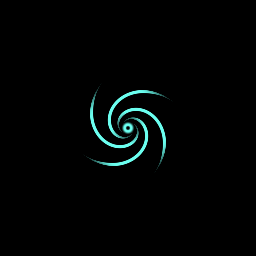
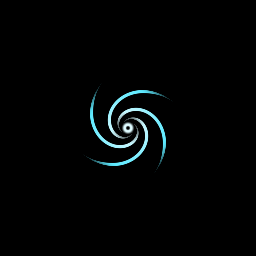
Separate the die's glass from the mark burning in it
The body and the surge glyph had both landed on the suite's teal, so the
one thing the die exists to say was the same colour as the thing it was
saying it on. The whirlpool was there — relief, emission, everything —
and it did not read.

They drifted because they are stated in completely different places. The
body reaches Dice So Nice as a colorset field in `dsn.mjs`; the glyph is
baked into an emissive PNG by the texture tool and does not exist at
runtime at all. Neither file could see the other, and each looked
entirely correct on its own.

So they are one statement now — `DIE_KEYS` in `palette.mjs` — and
neither file names a colour. The body is `apex`, the suite's deep arcane
violet: dark enough that a lit mark reads against it, saturated enough
to be a glass rather than a smoke, and, unlike the near-blacks, bright
enough to be a body at all on a transmissive material. The glyph is
`cyan`, 86 degrees away.

The glyph stays in the cool arcane family rather than going hot on
purpose: the severity tiers own amber and red, so a surge glyph in
`warn` would announce a Major before the severity had been rolled. It
blows to white toward the eye instead, so the mark has a value range of
its own — across a table the centre is what you catch first and the arms
are what tell you what it was.

The check measures the angle between the two (>= 45 degrees), requires
the glyph to out-value the body since it is a light source inside it,
[…]

Changed region(s): [[0.375, 0.375, 0.625, 0.625]]

diff --git a/docs/ARCANE_SURGE.md b/docs/ARCANE_SURGE.md
@@ -373,8 +373,7 @@ Two smaller consequences of the same material:
 - **The body colour has to have light in it.** A transmissive material carries
   its tint through the whole casting rather than painting it on the surface, so
   a near-black background is not a dark glass die, it is a void with an opaque
-  figure floating in it. The body is the feature's own `--gl-accent` teal, and
-  `arcane-surge-check.mjs` refuses an `ink*` token there.
+  figure floating in it. `arcane-surge-check.mjs` refuses an `ink*` token there.
 - **Bump and emissive maps both live behind DSN's "realistic lighting"**, which
   Foundry's own Low performance mode turns off. There is no normal map and no
   emissive map at all in that branch, and a die carrying nothing else is twenty
@@ -392,6 +391,30 @@ emissive *map* slot; that belongs to a preset), so its one channel is
 `emissiveLabels: true`, which lights DSN's own numeral canvas. Without it that
 die is the only surface in the feature wearing relief and no light, and a number
 cut into unlit glass is a number you have to hunt for.
+
+### The glass and the mark are one statement
+
+`DIE_KEYS` in `palette.mjs` names three palette keys — `body`, `edge`, `glyph` —
+and neither of the two files that render the die states a colour of its own.
+
+That is not tidiness. **The body and the glyph are only meaningful against each
+other, and they are produced in completely different places**: the body reaches
+Dice So Nice as a colorset field in `dsn.mjs`, while the glyph is baked into an
+emissive PNG by `tools/gen-surge-textures.mjs` and does not exist at runtime at
+all. Written separately, they landed on the same colour within one commit — the
+die was the feature's `--gl-accent` teal and so was the whirlpool, so the single
+thing the die exists to say was invisible, and each half looked entirely correct
+in its own file.
+
+The check tool measures the angle between them and requires ≥ 45°; the shipped
+pair is 86° apart (`apex` #b14bff at hue 274, `cyan` #5eeaff at hue 188). It
+also requires the glyph to out-value the body, since the glyph is a light source
+burning inside it, and refuses an `ink*` body for the reason above.
+
+The glyph deliberately stays in the **cool** arcane family rather than going hot.
+The severity tiers own amber and red (`TIER_KEYS`: cyan, warn, warnDeep,
+hazard), so a surge glyph in `warn` would announce a Major before the severity
+has been rolled.
 
 ```bash
 node tools/arcane-surge-preview.mjs --out=.preview/surge.html

diff --git a/CLAUDE.md b/CLAUDE.md
@@ -513,7 +513,14 @@ opaque smear repeated across the table.
 Two smaller ones in the same family. The die's body colour has to have light in
 it — a transmissive material carries its tint through the whole casting instead
 of painting it on, so a near-black background renders as a void rather than as
-dark glass, and the check refuses an `ink*` token there. And bump and emissive
+dark glass, and the check refuses an `ink*` token there. It must also be far
+enough from the *glyph's* hue to be a background for it: those two are produced
+in completely different places (the body is a colorset field in `dsn.mjs`, the
+glyph is baked into an emissive PNG by the texture tool) and, stated separately,
+they landed on the same teal within one commit — so the one thing the die exists
+to say was invisible while each half looked correct in its own file. Both now
+come from `DIE_KEYS` in `palette.mjs`, and the check measures the angle between
+them (≥ 45°) and requires the glyph to out-value the body. And bump and emissive
 maps *both* live behind DSN's "realistic lighting", which Foundry's own Low
 performance mode turns off; a die carrying nothing else is twenty identical
 faces there, so `registerDiceSoNice` checks and stands down to DSN's internal
